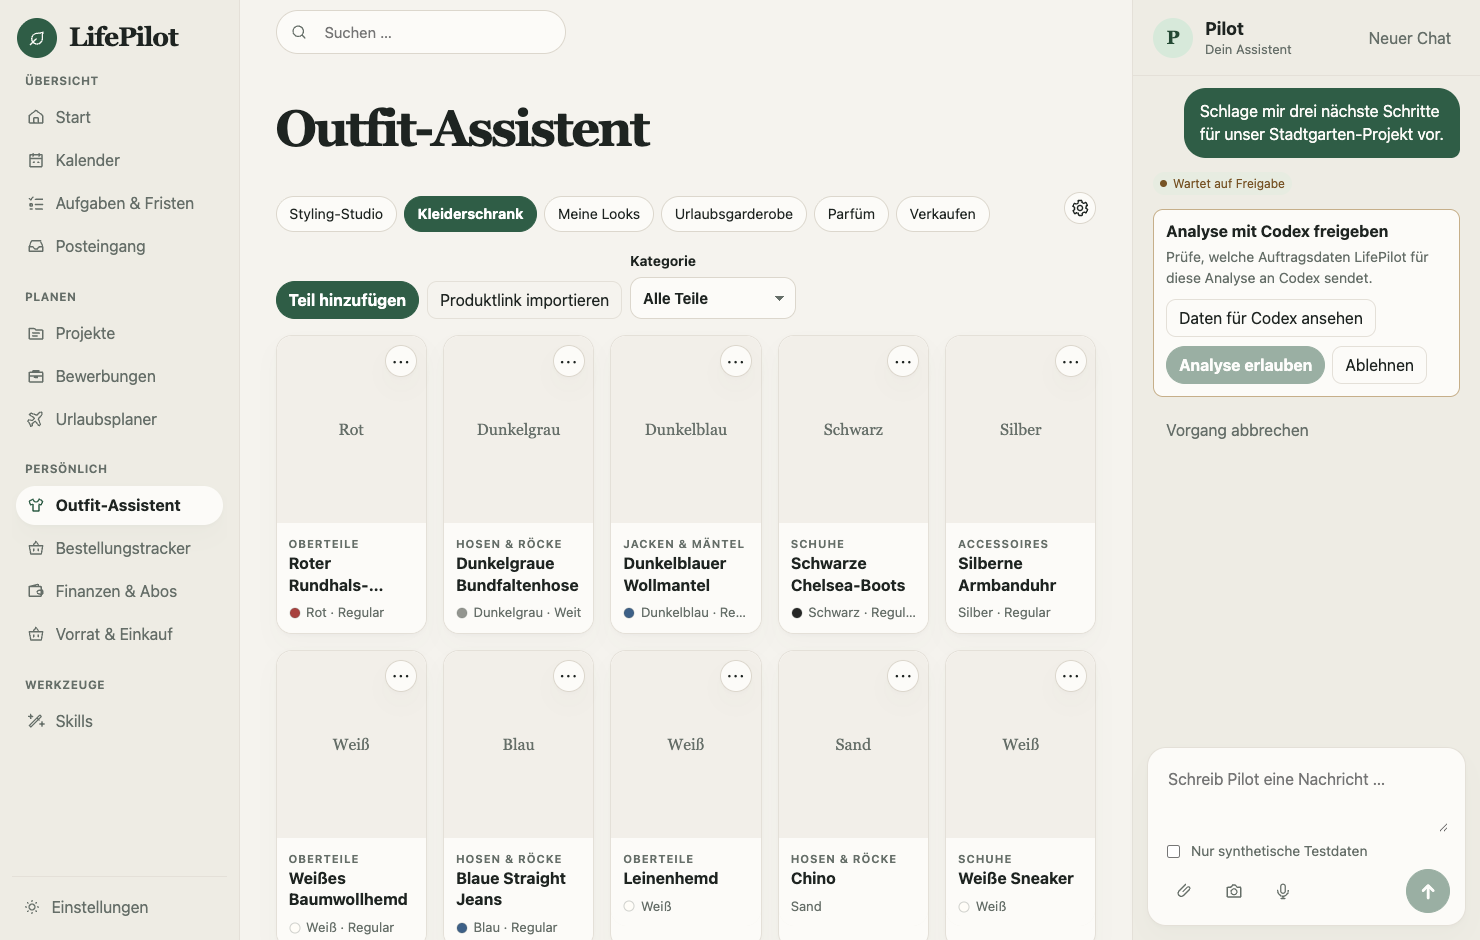
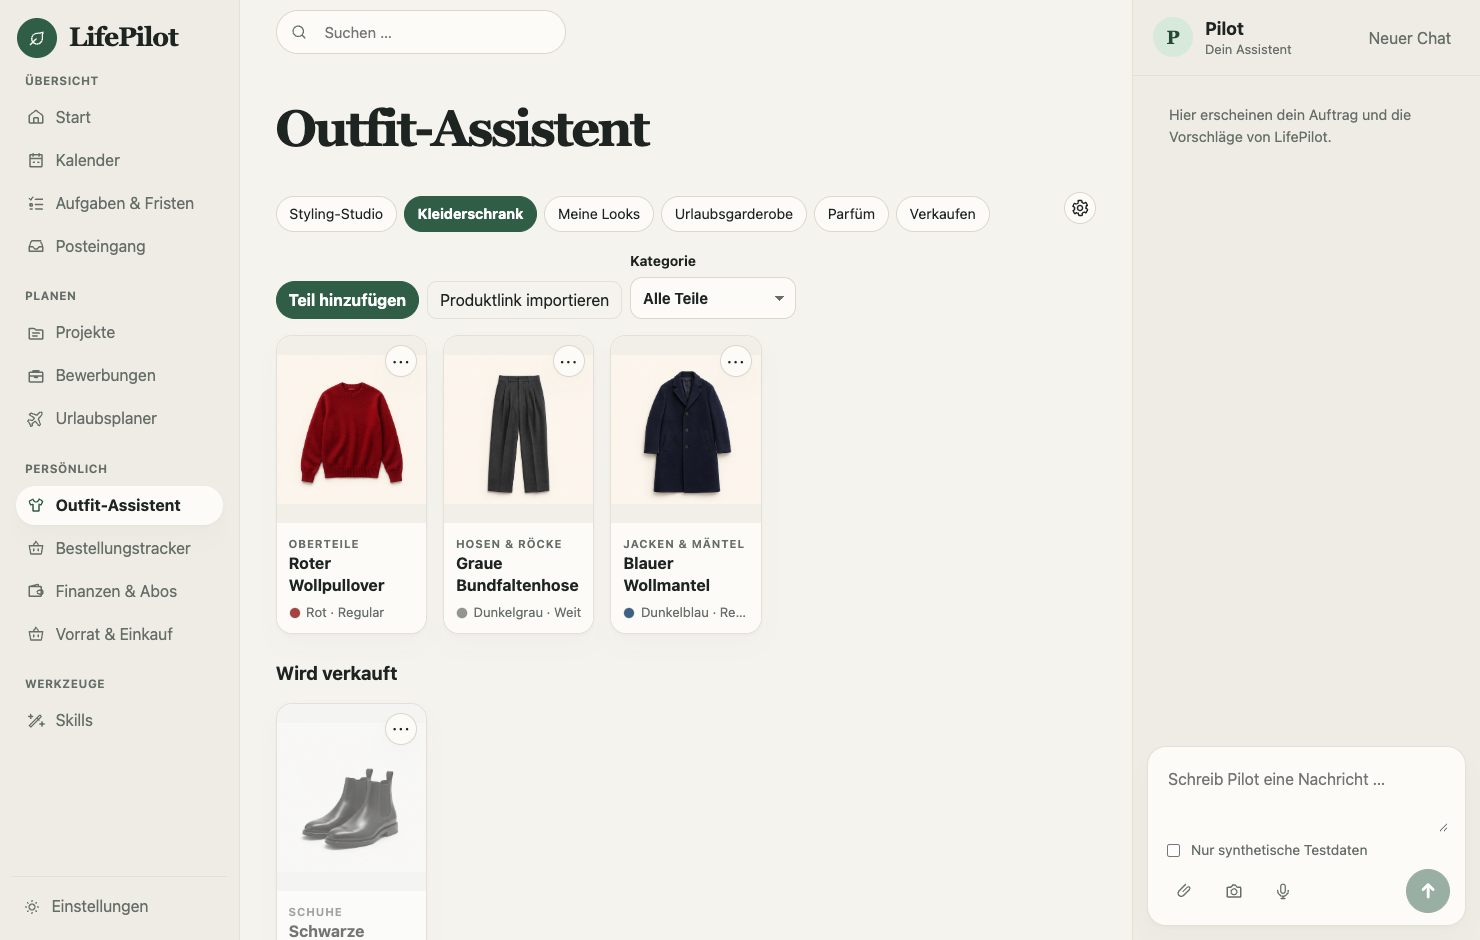
Document LifePilot features with a complete screenshot gallery

diff --git a/README.md b/README.md
@@ -2,24 +2,77 @@
 
 LifePilot ist eine lokale macOS-App für persönliche Organisation. Startseite, Kalender, Aufgaben und Projekte greifen auf denselben SQLite-Datenbestand zu. Pilot hilft bei Rückfragen und bereitet Änderungsvorschläge vor.
 
-[Aktueller Release](https://github.com/daniilobrant/lifepilot/releases/tag/v1.0) · [Installation](#installation) · [Funktionen](#funktionen) · [Skills](docs/SKILLS.md) · [Änderungsverlauf](CHANGELOG.md) · [Roadmap](#roadmap-von-01-bis-10)
-
-![LifePilot-Startseite mit Wochenbriefing und Pilot-Freigabe](docs/screenshots/01-start.png)
+[Aktueller Release](https://github.com/daniilobrant/lifepilot/releases/tag/v1.0) · [Installation](#installation) · [Screenshots](#lifepilot-im-einsatz) · [Funktionen](#funktionen) · [Skills](docs/SKILLS.md) · [Änderungsverlauf](CHANGELOG.md) · [Roadmap](#roadmap-von-01-bis-10)
 
 ## LifePilot im Einsatz
 
+Die Aufnahmen zeigen fiktive Daten in einem getrennten Testprofil. Die Produktbilder für Kleidung und Düfte wurden für diese Demo erstellt. Klicke auf eine Aufnahme, um sie in voller Größe zu sehen.
+
+### Planung und Pilot
+
 <table>
 <tr>
-<td width="50%" valign="top"><strong>Aufgaben und Fristen</strong><br>Private, berufliche und Uni-Aufgaben mit Priorität und Projektbezug.<br><a href="docs/screenshots/03-aufgaben.png"><img src="docs/screenshots/03-aufgaben.png" alt="Aufgabenboard in drei Spalten"></a></td>
-<td width="50%" valign="top"><strong>Projekte</strong><br>Phasen, Checkpoints und Abgaben in einer Projektkarte.<br><a href="docs/screenshots/04-projekte.png"><img src="docs/screenshots/04-projekte.png" alt="Projektkarte mit Checkliste und Fortschritt"></a></td>
+<td width="50%" valign="top"><strong>Startseite</strong><br>Wochenbriefing mit Aufgaben, Fristen, nächsten Terminen und wichtigen Mails.<br><a href="docs/screenshots/01-start.png"><img src="docs/screenshots/01-start.png" alt="Wochenbriefing mit anstehenden Aufgaben und Terminen"></a></td>
+<td width="50%" valign="top"><strong>Pilot-Chat</strong><br>Pilot nimmt Aufträge im Chat entgegen. Du kannst einen Entwurf prüfen und eine vorgeschlagene Änderung separat bestätigen.<br><a href="docs/screenshots/15-pilot.png"><img src="docs/screenshots/15-pilot.png" width="240" alt="Pilot-Chat mit einem fiktiven Projektauftrag und seinem Freigabestatus"></a></td>
 </tr>
 <tr>
-<td width="50%" valign="top"><strong>Bestellungen</strong><br>Lieferungen verfolgen und je Artikel zwischen Behalten und Retoure entscheiden.<br><a href="docs/screenshots/06-bestellungen.png"><img src="docs/screenshots/06-bestellungen.png" alt="Bestellungstracker mit Lieferstatus und Artikelentscheidungen"></a></td>
-<td width="50%" valign="top"><strong>Urlaubsplaner</strong><br>Reisezeitraum, Interessen und Ausschlüsse für eine Vorschau erfassen.<br><a href="docs/screenshots/08-reise.png"><img src="docs/screenshots/08-reise.png" alt="Reiseformular mit Kalenderfeldern und auswählbaren Interessen"></a></td>
+<td width="50%" valign="top"><strong>Kalender</strong><br>Termine und Serien in der Wochen- oder Monatsansicht planen und freie Zeitfenster finden.<br><a href="docs/screenshots/02-kalender.png"><img src="docs/screenshots/02-kalender.png" alt="Monatskalender und Suche nach freien Zeitfenstern"></a></td>
+<td width="50%" valign="top"><strong>Aufgaben &amp; Fristen</strong><br>Aufgaben nach Uni, Privat und Arbeit organisieren und bei Bedarf einem Projekt zuordnen.<br><a href="docs/screenshots/03-aufgaben.png"><img src="docs/screenshots/03-aufgaben.png" alt="Aufgabenboard in drei Spalten mit Prioritäten und Fristen"></a></td>
+</tr>
+<tr>
+<td width="50%" valign="top"><strong>Projekte</strong><br>Phasen, Checkpoints, verknüpfte Fristen und Fortschritt auf einer Projektkarte sehen.<br><a href="docs/screenshots/04-projekte.png"><img src="docs/screenshots/04-projekte.png" alt="Projektkarte mit Phasen und Fortschrittsanzeige"></a></td>
+<td width="50%" valign="top"><strong>Urlaubsplaner</strong><br>Reisezeitraum und Ziel auswählen, Interessen und Ausschlüsse festlegen und eine Vorschau vorbereiten.<br><a href="docs/screenshots/08-reise.png"><img src="docs/screenshots/08-reise.png" alt="Reiseformular mit Kalenderfeldern, Interessen und Ausschlüssen"></a></td>
 </tr>
 </table>
 
-Alle Aufnahmen stammen aus dem isolierten Testprofil mit fiktiven Daten. Die Galerie zeigt außerdem Kalender, Posteingang, Finanzen, Kleiderschrank, Einkauf, Bewerbungen, Skills und Einstellungen. [Alle 13 Screenshots](docs/SCREENSHOTS.md)
+### Posteingang, Bestellungen und Verwaltung
+
+<table>
+<tr>
+<td width="50%" valign="top"><strong>Posteingang</strong><br>Wichtige Nachrichten priorisieren und daraus Vorschläge für passende Folgeaktionen ableiten.<br><a href="docs/screenshots/05-posteingang.png"><img src="docs/screenshots/05-posteingang.png" alt="Posteingang mit ausgewählten fiktiven Nachrichten"></a></td>
+<td width="50%" valign="top"><strong>Bestellungstracker</strong><br>Lieferstatus verfolgen und je Artikel entscheiden, was behalten oder retourniert wird.<br><a href="docs/screenshots/06-bestellungen.png"><img src="docs/screenshots/06-bestellungen.png" alt="Musterbestellung mit Lieferstatus und Artikelentscheidungen"></a></td>
+</tr>
+<tr>
+<td width="50%" valign="top"><strong>Finanzen &amp; Abos</strong><br>Einnahmen, Ausgaben und Abo-Vorschläge im Monatsverlauf prüfen.<br><a href="docs/screenshots/07-finanzen.png"><img src="docs/screenshots/07-finanzen.png" alt="Finanzübersicht mit fiktiven Einnahmen und Ausgaben"></a></td>
+<td width="50%" valign="top"><strong>Bewerbungen</strong><br>Bewerbungen nach Status organisieren und nächste Schritte und Gespräche planen.<br><a href="docs/screenshots/11-bewerbungen.png"><img src="docs/screenshots/11-bewerbungen.png" alt="Bewerbungsboard mit fiktivem Arbeitgeber"></a></td>
+</tr>
+</table>
+
+### Outfit, Düfte und Haushalt
+
+<table>
+<tr>
+<td width="50%" valign="top"><strong>Kleiderschrank</strong><br>Kleidung mit Produktbildern, Kategorien, Farben und Passformen verwalten.<br><a href="docs/screenshots/09-kleiderschrank.png"><img src="docs/screenshots/09-kleiderschrank.png" alt="Vier fiktive Kleidungsstücke mit Produktbildern"></a></td>
+<td width="50%" valign="top"><strong>Parfüm &amp; Düfte</strong><br>Düfte mit Flakonbild, Duftnoten, Größe und passenden Anlässen sammeln.<br><a href="docs/screenshots/14-duefte.png"><img src="docs/screenshots/14-duefte.png" alt="Vier fiktive Düfte mit Flakonbildern und Duftnoten"></a></td>
+</tr>
+<tr>
+<td width="50%" valign="top"><strong>Styling-Studio</strong><br>Ein Outfit nach Anlass, Tageszeit und vorhandenen Kleidungsstücken zusammenstellen.<br><a href="docs/screenshots/16-styling.png"><img src="docs/screenshots/16-styling.png" alt="Styling-Studio mit Anlass, Tageszeit und Outfit-Funktion"></a></td>
+<td width="50%" valign="top"><strong>Einkaufsliste</strong><br>Lebensmittel auf einer nach Warengruppen gegliederten Liste abhaken.<br><a href="docs/screenshots/10-einkauf.png"><img src="docs/screenshots/10-einkauf.png" alt="Einkaufsliste mit Kategoriegruppen"></a></td>
+</tr>
+<tr>
+<td width="50%" valign="top"><strong>Meine Looks</strong><br>Kombinationen und eigene Outfit-Fotos als Looks zusammenhalten.<br><a href="docs/screenshots/17-looks.png"><img src="docs/screenshots/17-looks.png" alt="Lookbook mit gespeicherter Outfit-Kombination"></a></td>
+<td width="50%" valign="top"><strong>Urlaubsgarderobe</strong><br>Kleidungsstücke aus dem Schrank für eine konkrete Reise auswählen und als Packauswahl speichern.<br><a href="docs/screenshots/20-urlaubsgarderobe.png"><img src="docs/screenshots/20-urlaubsgarderobe.png" alt="Urlaubsgarderobe mit bebilderter Packauswahl für eine Musterreise"></a></td>
+</tr>
+<tr>
+<td width="50%" valign="top"><strong>Verkaufen</strong><br>Für ein Kleidungsstück einen Verkaufsentwurf mit Zustand, Preisrahmen und Inseratstext erstellen.<br><a href="docs/screenshots/21-verkaufen.png"><img src="docs/screenshots/21-verkaufen.png" alt="Verkaufsbereich mit einem fiktiven Paar Chelsea-Boots"></a></td>
+<td width="50%" valign="top"><strong>Mein Vorrat</strong><br>Vorräte nach Kategorien durchsuchen und den Bestand pflegen.<br><a href="docs/screenshots/18-vorrat.png"><img src="docs/screenshots/18-vorrat.png" alt="Kategorisierte Vorratsverwaltung"></a></td>
+</tr>
+<tr>
+<td width="50%" valign="top"><strong>Meine Rezepte</strong><br>Aus vorhandenen Zutaten kochen oder bei Pilot nach Rezeptideen fragen.<br><a href="docs/screenshots/19-rezepte.png"><img src="docs/screenshots/19-rezepte.png" alt="Rezeptbereich mit Vorrats- und Pilot-Aktionen"></a></td>
+<td width="50%"></td>
+</tr>
+</table>
+
+### Skills und Einstellungen
+
+<table>
+<tr>
+<td width="50%" valign="top"><strong>Skills</strong><br>Verfügbare Fähigkeiten und ihre Verknüpfungen mit den Modulen einsehen.<br><a href="docs/screenshots/12-skills.png"><img src="docs/screenshots/12-skills.png" alt="Skill-Übersicht mit verknüpften Modulen"></a></td>
+<td width="50%" valign="top"><strong>Einstellungen &amp; Profil</strong><br>Profil für persönliche Angaben, Studium und Beruf sowie optionale Verbindungen verwalten.<br><a href="docs/screenshots/13-einstellungen.png"><img src="docs/screenshots/13-einstellungen.png" alt="Einstellungen und Profilfelder im Testprofil"></a></td>
+</tr>
+</table>
+
+[Galerie als eigene Seite](docs/SCREENSHOTS.md)
 
 ## Installation
 

diff --git a/docs/SCREENSHOTS.md b/docs/SCREENSHOTS.md
@@ -1,55 +1,129 @@
 # LifePilot im Testprofil
 
-Die 13 Screenshots zeigen die laufende App aus dem Quellstand der Runtime 0.25.16 bei 1480 × 940 Pixeln. Sie entstanden in einer separaten Testinstanz mit frischer SQLite-Datenbank und einem temporären Chromium-Profil. Projekte, Belege und Nachrichten sind fiktiv. Die Pilot-Anfrage ist als synthetischer Entwurf zu sehen. Für diese Aufnahmen wurde kein Google-Konto verbunden und kein Modell gestartet.
+Die Screenshots stammen aus getrennten Chromium-Sitzungen mit fiktiven Daten. Die ursprünglichen Aufnahmen entstanden mit der Runtime 0.25.16. Pilot, Kleiderschrank, Duftsammlung und die ergänzenden Ansichten wurden mit LifePilot 1.0 aufgenommen. Die Kleidungs- und Flakonbilder sind generierte Beispielmotive. In den neuen Sitzungen war kein Google-Konto verbunden. Die Agentenaufnahme zeigt den lokalen Testmodus.
 
-## Start und Pilot
+## Startseite
 
-![Woche, Fristen, Aufgaben und Pilot-Freigabe](screenshots/01-start.png)
+Wochenbriefing mit Aufgaben, Fristen, nächsten Terminen und wichtigen Mails.
+
+![Wochenbriefing mit anstehenden Aufgaben und Terminen](screenshots/01-start.png)
+
+## Pilot-Chat
+
+Pilot nimmt Aufträge im Chat entgegen. Du kannst einen Entwurf prüfen und eine vorgeschlagene Änderung separat bestätigen.
+
+![Pilot-Chat mit einem fiktiven Projektauftrag und seinem Freigabestatus](screenshots/15-pilot.png)
 
 ## Kalender
 
+Termine und Serien in der Wochen- oder Monatsansicht planen und freie Zeitfenster finden.
+
 ![Monatskalender und Suche nach freien Zeitfenstern](screenshots/02-kalender.png)
 
-## Aufgaben und Fristen
+## Aufgaben & Fristen
 
-![Aufgabenboard in drei Spalten](screenshots/03-aufgaben.png)
+Aufgaben nach Uni, Privat und Arbeit organisieren und bei Bedarf einem Projekt zuordnen.
+
+![Aufgabenboard in drei Spalten mit Prioritäten und Fristen](screenshots/03-aufgaben.png)
 
 ## Projekte
 
-![Projektkarte mit Phasen, Unterpunkten und Fortschritt](screenshots/04-projekte.png)
+Phasen, Checkpoints, verknüpfte Fristen und Fortschritt auf einer Projektkarte sehen.
 
-## Posteingang
-
-![Wichtige fiktive Nachrichten](screenshots/05-posteingang.png)
-
-## Bestellungstracker
-
-![Musterbestellung mit behaltenen und retournierten Artikeln](screenshots/06-bestellungen.png)
-
-## Finanzen und Abos
-
-![Finanzübersicht mit fiktiven Einnahmen und Ausgaben](screenshots/07-finanzen.png)
+![Projektkarte mit Phasen und Fortschrittsanzeige](screenshots/04-projekte.png)
 
 ## Urlaubsplaner
 
+Reisezeitraum und Ziel auswählen, Interessen und Ausschlüsse festlegen und eine Vorschau vorbereiten.
+
 ![Reiseformular mit Kalenderfeldern, Interessen und Ausschlüssen](screenshots/08-reise.png)
 
-## Kleiderschrank
+## Posteingang
 
-![Beispielartikel und Navigationsreiter des Outfit-Assistenten](screenshots/09-kleiderschrank.png)
+Wichtige Nachrichten priorisieren und daraus Vorschläge für passende Folgeaktionen ableiten.
 
-## Vorrat und Einkauf
+![Posteingang mit ausgewählten fiktiven Nachrichten](screenshots/05-posteingang.png)
 
-![Einkaufsliste mit Kategoriegruppen](screenshots/10-einkauf.png)
+## Bestellungstracker
+
+Lieferstatus verfolgen und je Artikel entscheiden, was behalten oder retourniert wird.
+
+![Musterbestellung mit Lieferstatus und Artikelentscheidungen](screenshots/06-bestellungen.png)
+
+## Finanzen & Abos
+
+Einnahmen, Ausgaben und Abo-Vorschläge im Monatsverlauf prüfen.
+
+![Finanzübersicht mit fiktiven Einnahmen und Ausgaben](screenshots/07-finanzen.png)
 
 ## Bewerbungen
 
+Bewerbungen nach Status organisieren und nächste Schritte und Gespräche planen.
+
 ![Bewerbungsboard mit fiktivem Arbeitgeber](screenshots/11-bewerbungen.png)
+
+## Kleiderschrank
+
+Kleidung mit Produktbildern, Kategorien, Farben und Passformen verwalten.
+
+![Vier fiktive Kleidungsstücke mit Produktbildern](screenshots/09-kleiderschrank.png)
+
+## Parfüm & Düfte
+
+Düfte mit Flakonbild, Duftnoten, Größe und passenden Anlässen sammeln.
+
+![Vier fiktive Düfte mit Flakonbildern und Duftnoten](screenshots/14-duefte.png)
+
+## Styling-Studio
+
+Ein Outfit nach Anlass, Tageszeit und vorhandenen Kleidungsstücken zusammenstellen.
+
+![Styling-Studio mit Anlass, Tageszeit und Outfit-Funktion](screenshots/16-styling.png)
+
+## Einkaufsliste
+
+Lebensmittel auf einer nach Warengruppen gegliederten Liste abhaken.
+
+![Einkaufsliste mit Kategoriegruppen](screenshots/10-einkauf.png)
+
+## Meine Looks
+
+Kombinationen und eigene Outfit-Fotos als Looks zusammenhalten.
+
+![Lookbook mit gespeicherter Outfit-Kombination](screenshots/17-looks.png)
+
+## Urlaubsgarderobe
+
+Kleidungsstücke aus dem Schrank für eine konkrete Reise auswählen und als Packauswahl speichern.
+
+![Urlaubsgarderobe mit bebilderter Packauswahl für eine Musterreise](screenshots/20-urlaubsgarderobe.png)
+
+## Verkaufen
+
+Für ein Kleidungsstück einen Verkaufsentwurf mit Zustand, Preisrahmen und Inseratstext erstellen.
+
+![Verkaufsbereich mit einem fiktiven Paar Chelsea-Boots](screenshots/21-verkaufen.png)
+
+## Mein Vorrat
+
+Vorräte nach Kategorien durchsuchen und den Bestand pflegen.
+
+![Kategorisierte Vorratsverwaltung](screenshots/18-vorrat.png)
+
+## Meine Rezepte
+
+Aus vorhandenen Zutaten kochen oder bei Pilot nach Rezeptideen fragen.
+
+![Rezeptbereich mit Vorrats- und Pilot-Aktionen](screenshots/19-rezepte.png)
 
 ## Skills
 
-![Skill-Übersicht und offene Analysefreigaben](screenshots/12-skills.png)
+Verfügbare Fähigkeiten und ihre Verknüpfungen mit den Modulen einsehen.
 
-## Einstellungen
+![Skill-Übersicht mit verknüpften Modulen](screenshots/12-skills.png)
 
-![Profildaten im synthetischen Testprofil](screenshots/13-einstellungen.png)
+## Einstellungen & Profil
+
+Profil für persönliche Angaben, Studium und Beruf sowie optionale Verbindungen verwalten.
+
+![Einstellungen und Profilfelder im Testprofil](screenshots/13-einstellungen.png)
